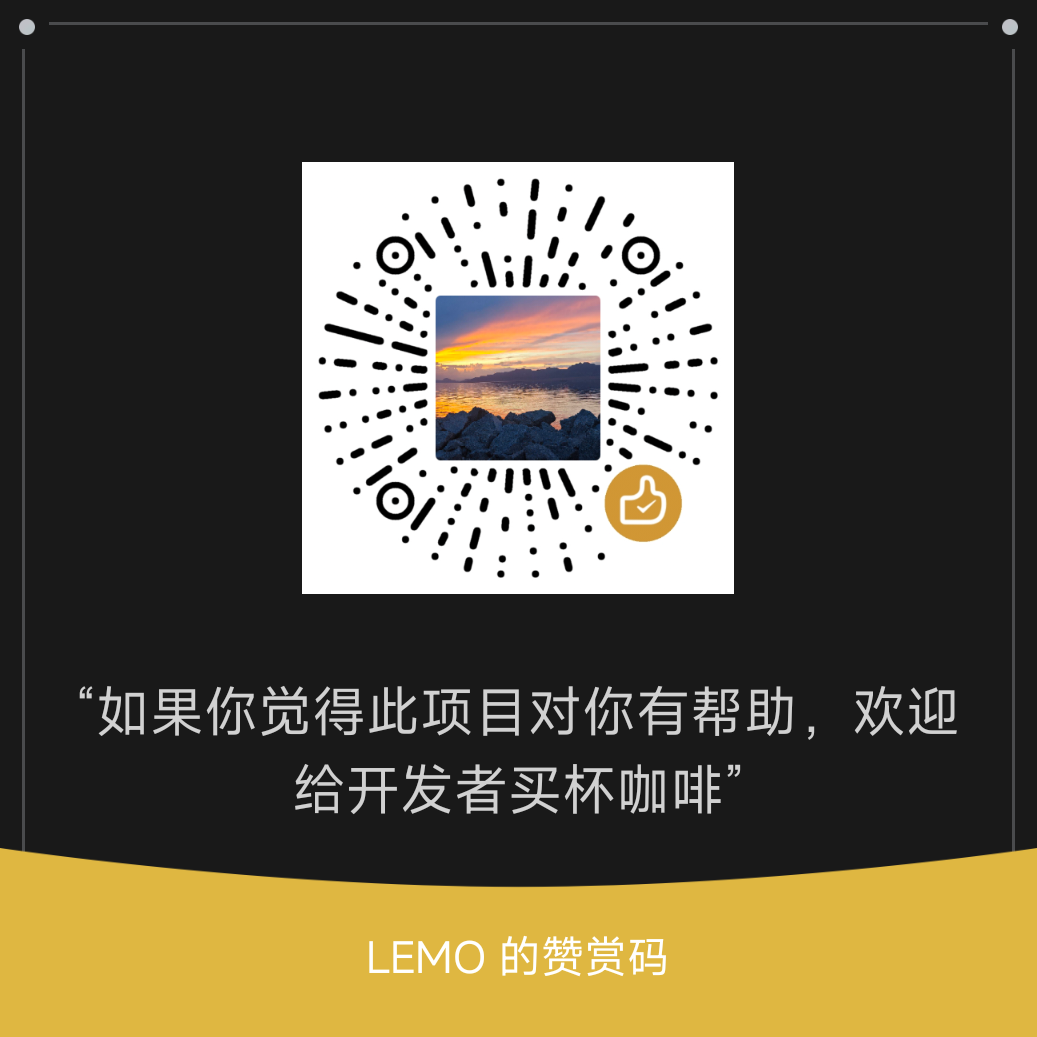
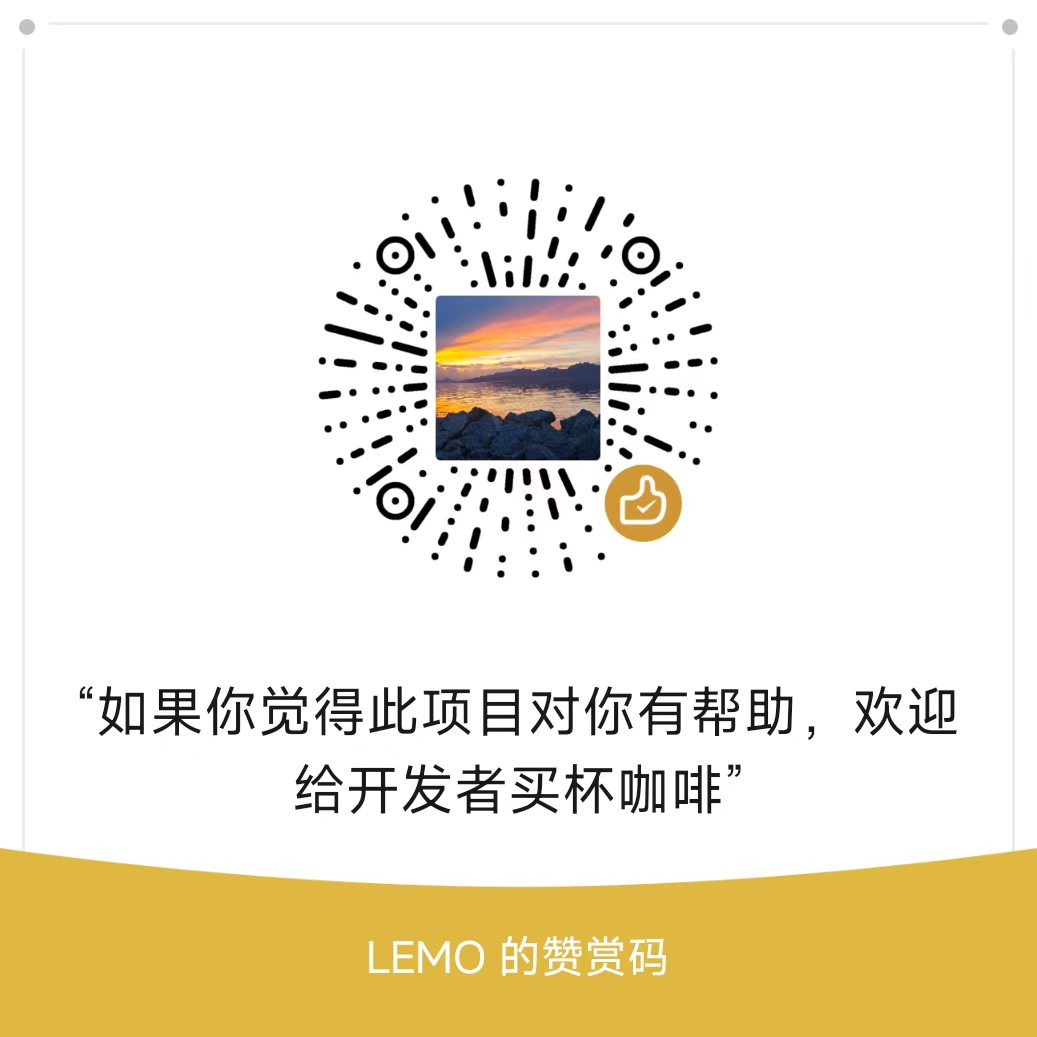
docs: 赞赏码换成新的浅色版
README 引用的 docs/assets/appreciation-qr.png 换成新生成的赞赏码。同尺寸
（1037x1037），路径不变，所以 README 的 img 标签和说明文字都不用动。

源图是 JPEG，转成 PNG 落到原路径，保持这个资源一直以来的格式。

diff --git a/CHANGELOG.md b/CHANGELOG.md
@@ -172,6 +172,10 @@
   主路径全都有行，触发条件从未自然发生。2.0.8.0 的分支只有忠实复刻终端签名的
   假终端覆盖，需要报告人用上面那个参数在 2.0.8.0 上对比复验。
 
+### 文档
+
+- **赞赏码换新**：`docs/assets/appreciation-qr.png` 换成新生成的浅色版赞赏码。路径没变，README 的引用和说明文字都不用动。
+
 
 ## [0.3.31] - 2026-09-09
 
